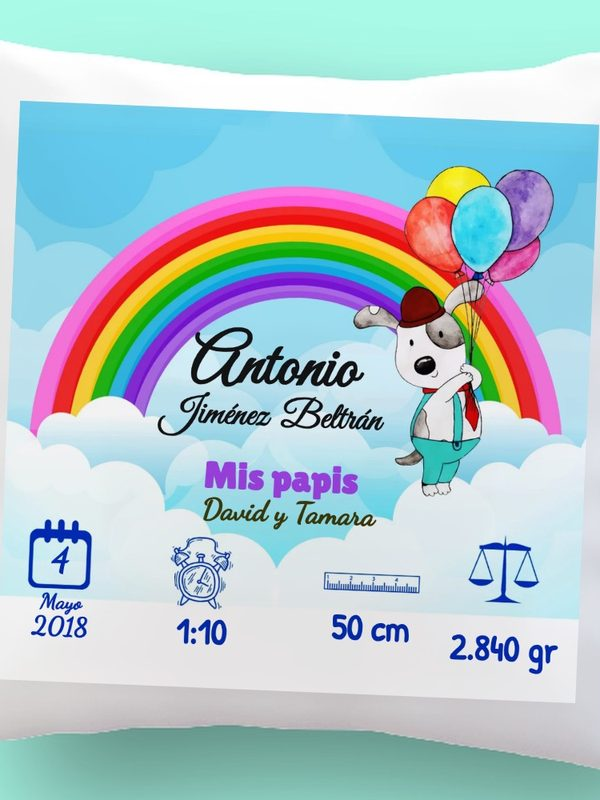
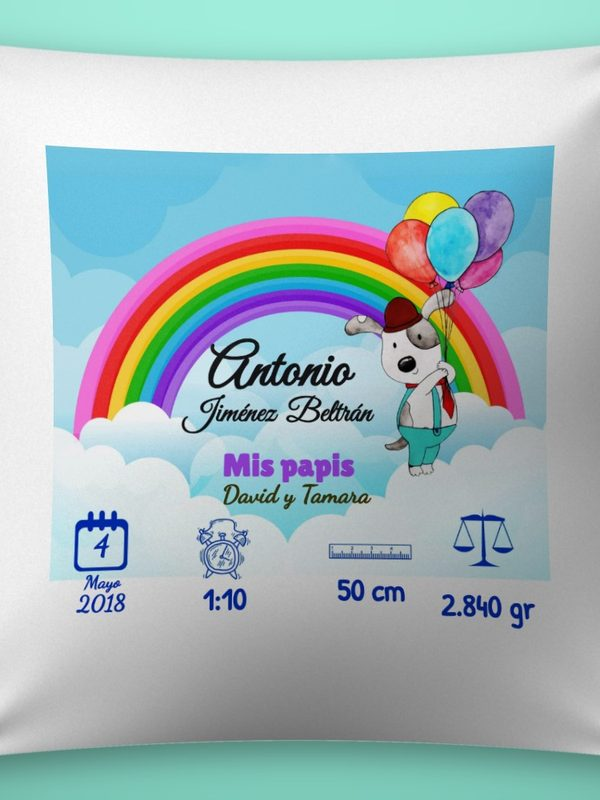
Vista del cojín más realista: la tela se curva y el diseño toma sus luces y arrugas
- Nueva foto de cojín con relieve (herramientas/mockup_cojin.py)
- dibujarMockup curva el diseño con la forma del cojín y lo sombrea con la foto
- Fotos de ejemplo de la portada actualizadas

Claude-Session: https://claude.ai/code/session_014LaVctDRqt7kg5MW58nu8k

diff --git a/textos.js b/textos.js
@@ -9,7 +9,9 @@ const FUENTES=[["QL Titulo","fuentes/LilitaOne-Regular.ttf"],["QL Destacado","fu
   ["QL Elegante","fuentes/GreatVibes-Regular.ttf"],["QL Script","fuentes/DancingScript.ttf",{weight:"400 700"}]];
 // Cojines de nacimiento: misma ficha que el de jubilación
 const COJIN_FICHA=["Cojín de 40 × 40 cm, color blanco","Zona impresa: 29 × 29 cm aprox.","Material: 100 % poliéster"];
-const MOCKUP_COJIN={src:"disenos/cojin_jubilacion/mockup.jpg", w:1000, h:1007, m:[0.72373,0.02998,-0.02989,0.72307,150.25,125.91]};
+// Foto del cojín generada con relieve (herramientas/mockup_cojin.py): c = centro, s = semilado, a = pellizco de los lados,
+// t = parte impresa (29 de 40 cm), alb = blanco de la tela en la foto. dibujarMockup curva y sombrea el diseño con esa misma forma.
+const MOCKUP_COJIN={src:"disenos/cojin_jubilacion/mockup2.jpg", w:1000, h:1000, cojin:{c:500, s:452, a:0.06, t:0.725, alb:236}};
 
 // Cojín perrito con globos (niña rosa / niño azul): mismos textos, cambia el color de los datos
 const CAMPOS_PERRITO=nom=>[
@@ -54,7 +56,7 @@ const DISENOS={
     proximamente:"Próximamente, más personajes y diseños de otros servicios.",
     logo:{src:"logo/rotulo_grande.png", der:968, abajo:972, w:150},   // logo ¡Qué lucha!! abajo a la derecha (unidades)
     // Maqueta: foto del cojín en blanco y dónde va el diseño encima (matriz de canvas, diseño de 1000 px)
-    mockup:{src:"disenos/cojin_jubilacion/mockup.jpg", w:1000, h:1007, m:[0.72373,0.02998,-0.02989,0.72307,150.25,125.91]},
+    mockup:MOCKUP_COJIN,
     campos:[
       {id:"t1", etiqueta:"Título (arriba, en azul)", def:"Intervención finalizada:", max:40, formas:true, quitar:true, ayuda:"Si dejas solo un título, saldrá más grande."},
       {id:"t2", etiqueta:"Título destacado (en rojo)", def:"Jubilación con éxito", max:36, formas:true, quitar:true, ayuda:"Si dejas solo un título, saldrá más grande."},
@@ -316,11 +318,42 @@ function cargarMockup(d){ return d.mockup?cargarImagen(d.mockup.src):Promise.res
 function dibujarMockup(cv,d,diseno,foto){
   const mk=d.mockup; cv.width=mk.w; cv.height=mk.h;
   const g=cv.getContext("2d"); g.drawImage(foto,0,0,mk.w,mk.h);
-  const k=1000/diseno.width, m=mk.m;
-  g.save(); g.globalCompositeOperation="multiply"; g.setTransform(m[0]*k,m[1]*k,m[2]*k,m[3]*k,m[4],m[5]);
-  g.imageSmoothingQuality="high"; g.drawImage(diseno,0,0);
-  // El cojín de la foto es gris claro: se mezcla con el diseño normal para no oscurecer los colores
-  g.globalCompositeOperation="source-over"; g.globalAlpha=0.55; g.drawImage(diseno,0,0); g.restore();
+  const k=mk.cojin;
+  if(!k){ // foto antigua: diseño plano superpuesto
+    const f=1000/diseno.width, m=mk.m;
+    g.save(); g.globalCompositeOperation="multiply"; g.setTransform(m[0]*f,m[1]*f,m[2]*f,m[3]*f,m[4],m[5]);
+    g.imageSmoothingQuality="high"; g.drawImage(diseno,0,0);
+    g.globalCompositeOperation="source-over"; g.globalAlpha=0.55; g.drawImage(diseno,0,0); g.restore(); return;
+  }
+  // 1) Diseño al tamaño impreso en la foto
+  const P=Math.round(2*k.t*k.s), dc=document.createElement("canvas"); dc.width=dc.height=P;
+  const dg=dc.getContext("2d"); dg.imageSmoothingQuality="high"; dg.drawImage(diseno,0,0,P,P);
+  const D=dg.getImageData(0,0,P,P).data;
+  // 2) Curvarlo como la tela (los lados se meten hacia dentro) y sombrearlo con las luces y arrugas de la foto
+  const x0=Math.max(0,Math.floor(k.c-k.s*k.t-2)), x1=Math.min(mk.w,Math.ceil(k.c+k.s*k.t+2)), W=x1-x0;
+  const Fi=g.getImageData(x0,x0,W,W), F=Fi.data, T=k.t, A=k.a, inv=1/k.alb;
+  for(let py=0;py<W;py++){
+    const Y=(x0+py+0.5-k.c)/k.s;
+    for(let px=0;px<W;px++){
+      const X=(x0+px+0.5-k.c)/k.s;
+      let u=X, v=Y;
+      for(let i=0;i<4;i++){ u=X/(1-A*(1-v*v)); v=Y/(1-A*(1-u*u)); }
+      const e=Math.max(Math.abs(u),Math.abs(v)); if(e>T+2/k.s) continue;
+      const cov=Math.min(1,Math.max(0,(T-e)*k.s+0.5)); if(cov<=0) continue;
+      const sx=Math.min(P-1.001,Math.max(0,(u/T+1)/2*P-0.5)), sy=Math.min(P-1.001,Math.max(0,(v/T+1)/2*P-0.5));
+      const ix=sx|0, iy=sy|0, fx=sx-ix, fy=sy-iy, i00=(iy*P+ix)*4, i10=i00+4, i01=i00+P*4, i11=i01+4;
+      const w00=(1-fx)*(1-fy)*D[i00+3], w10=fx*(1-fy)*D[i10+3], w01=(1-fx)*fy*D[i01+3], w11=fx*fy*D[i11+3], ws=w00+w10+w01+w11;
+      const da=ws/255; if(da<=0) continue;
+      const o=(py*W+px)*4, r0=F[o], g0=F[o+1], b0=F[o+2];
+      const sh=(r0+g0+b0)/3*inv, lo=Math.min(sh,1)*k.alb/255, hi=Math.max(sh-1,0)*1.2, al=da*cov;
+      for(let c=0;c<3;c++){
+        const dv=(D[i00+c]*w00+D[i10+c]*w10+D[i01+c]*w01+D[i11+c]*w11)/ws;   // media ponderada por la opacidad
+        const out=dv*lo+(255-dv*lo)*hi;
+        F[o+c]=F[o+c]*(1-al)+out*al;
+      }
+    }
+  }
+  g.putImageData(Fi,x0,x0);
 }
 window.QLTextos={DISENOS,FORMAS,personaje,cargar,cargarFuentes,dibujar,ajustar,cargarMockup,dibujarMockup};
 })();

diff --git a/personalizar.html b/personalizar.html
@@ -86,7 +86,7 @@ input.err,textarea.err{border-color:#C0392B;background:#FFF5F4}
 <script src="menu.js"></script>
 <div id="app"><div class="sub" style="padding:40px 0;text-align:center">Cargando…</div></div>
 <script>document.write('<script src="config.js?v='+Date.now()+'"><\/script>');</script><!-- siempre los ajustes al día -->
-<script src="textos.js?v=4"></script>
+<script src="textos.js?v=5"></script>
 <script src="visor.js"></script>
 <script>
 (function(){

diff --git a/pedir.html b/pedir.html
@@ -159,7 +159,7 @@ input.err,select.err{border-color:#C0392B;background:#FFF5F4}
 <script src="menu.js"></script>
 <div id="app"></div>
 <script>document.write('<script src="config.js?v='+Date.now()+'"><\/script>');</script><!-- siempre los ajustes al día -->
-<script src="textos.js?v=4"></script>
+<script src="textos.js?v=5"></script>
 <script src="calendario12.js"></script>
 <script src="visor.js"></script>
 <script src="calidad.js"></script>

diff --git a/admin.html b/admin.html
@@ -111,7 +111,7 @@ canvas#prev{width:100%;height:auto;display:block;border-radius:6px;box-shadow:0 
 <body>
 <div id="root"></div>
 <script>document.write('<script src="config.js?v='+Date.now()+'"><\/script>');</script><!-- siempre los ajustes al día -->
-<script src="textos.js?v=4"></script>
+<script src="textos.js?v=5"></script>
 <script src="calendario12.js"></script>
 <script src="fotocojin.js"></script>
 <script>

diff --git a/herramientas/mockup_cojin.py b/herramientas/mockup_cojin.py
@@ -1,0 +1,61 @@
+# Genera una foto de cojín (1000 x 1000) con relieve, arrugas y sombra.
+# La misma geometría se usa en textos.js para curvar y sombrear el diseño, así encaja con la foto.
+import numpy as np, cv2
+
+N = 1000; SS = 2; M = N * SS
+C = 500.0; S = 452.0          # centro y semilado del cojín (px)
+A = 0.06                      # pellizco de los lados (se curvan hacia dentro)
+ALB = 236.0                    # blanco de la tela
+
+ys, xs = np.mgrid[0:M, 0:M].astype(np.float32) / SS
+X = (xs - C) / S; Y = (ys - C) / S
+u, v = X.copy(), Y.copy()
+for _ in range(6):             # invertir x = u(1-A(1-v²)), y = v(1-A(1-u²))
+    u = X / (1 - A * (1 - v * v)); v = Y / (1 - A * (1 - u * u))
+inside = (np.abs(u) <= 1) & (np.abs(v) <= 1)
+uc, vc = np.clip(u, -1, 1), np.clip(v, -1, 1)
+
+# Relieve: abombado + arrugas suaves en las esquinas + borde de costura
+H = 175.0
+h = H * np.power(np.clip(1 - uc ** 2, 0, 1), 1.0) * np.power(np.clip(1 - vc ** 2, 0, 1), 1.0)
+for cu, cv in [(-1, -1), (1, -1), (-1, 1), (1, 1)]:
+    du, dv = (uc - cu) * -cu, (vc - cv) * -cv          # 0 en la esquina, hacia dentro positivo
+    d = np.sqrt(du * du + dv * dv); th = np.arctan2(dv, du)
+    h += 3.5 * np.exp(-d / 0.25) * np.cos(th * 9 + cu * 0.7 + cv * 1.3) * np.clip(d / 0.08, 0, 1)
+rng = np.random.default_rng(5)
+lowf = cv2.GaussianBlur(rng.normal(0, 1, (M, M)).astype(np.float32), (0, 0), 70 * SS)
+h += lowf / lowf.std() * 3.5
+gy, gx = np.gradient(h * SS)
+gx = 6 * np.tanh(gx / 6); gy = 6 * np.tanh(gy / 6)
+n = np.dstack([-gx, -gy, np.ones_like(h)]); n /= np.linalg.norm(n, axis=2, keepdims=True)
+L = np.array([-0.45, -0.55, 0.70]); L /= np.linalg.norm(L)
+dif = np.clip((n * L).sum(2), 0, 1)
+hv = np.array([0, 0, 1]) + L; hv /= np.linalg.norm(hv)
+spec = np.clip((n * hv).sum(2), 0, 1) ** 40
+flat = (np.array([0, 0, 1]) * L).sum()
+shade = 0.42 + 0.58 * dif / flat
+shade = shade * 0.95 + spec * 0.05
+shade = np.where(shade > 1, 1 + (shade - 1) * 0.35, shade)
+# oclusión suave junto al borde
+edge = np.minimum(1 - np.abs(uc), 1 - np.abs(vc))
+shade *= 1 - 0.08 * np.exp(-edge / 0.06)
+# trama fina de la tela
+tex = rng.normal(0, 1, (M, M)).astype(np.float32)
+tex = cv2.GaussianBlur(tex, (0, 0), 0.6 * SS)
+shade *= 1 + tex / tex.std() * 0.008
+
+# Fondo y sombra
+bg_top = np.array([170, 250, 232], np.float32); bg_bot = np.array([132, 214, 196], np.float32)  # RGB
+t = (ys / N)[..., None]
+bg = bg_top * (1 - t) + bg_bot * t
+vig = 1 - 0.10 * (((xs - C) / N) ** 2 + ((ys - C) / N) ** 2)[..., None] * 2
+bg *= vig
+msk = cv2.morphologyEx(inside.astype(np.uint8), cv2.MORPH_OPEN, cv2.getStructuringElement(cv2.MORPH_ELLIPSE, (34 * SS, 34 * SS))).astype(np.float32)
+msk = cv2.GaussianBlur(msk, (0, 0), 0.7 * SS)
+sh = cv2.GaussianBlur(np.roll(np.roll(msk, int(16 * SS), 0), int(12 * SS), 1), (0, 0), 22 * SS)
+bg *= (1 - 0.42 * sh)[..., None]
+pill = (ALB * shade)[..., None] * np.array([1.0, 1.0, 1.005], np.float32)
+img = bg * (1 - msk[..., None]) + pill * msk[..., None]
+img = cv2.resize(np.clip(img, 0, 255).astype(np.uint8), (N, N), interpolation=cv2.INTER_AREA)
+cv2.imwrite('mockup2.jpg', cv2.cvtColor(img, cv2.COLOR_RGB2BGR), [cv2.IMWRITE_JPEG_QUALITY, 90])
+print('ok', float(shade[inside].min()), float(shade[inside].max()))
